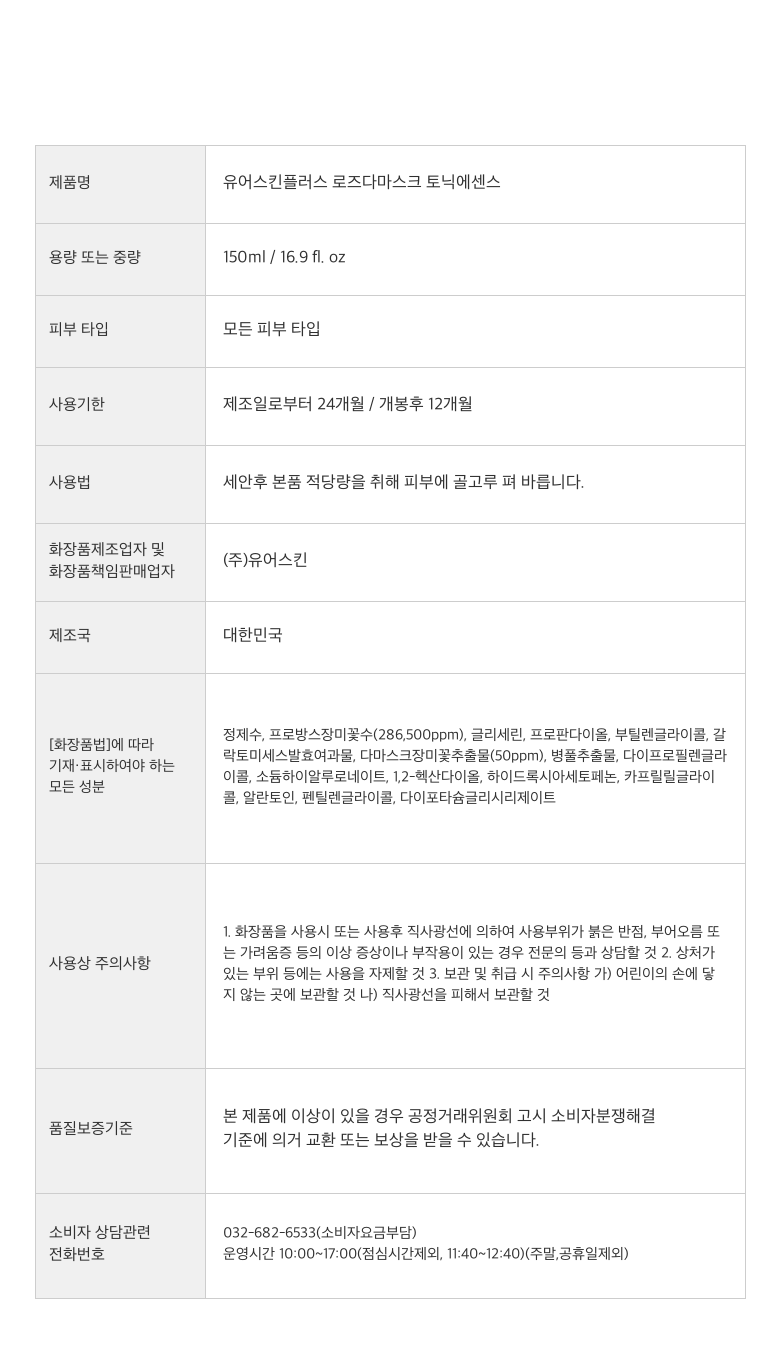
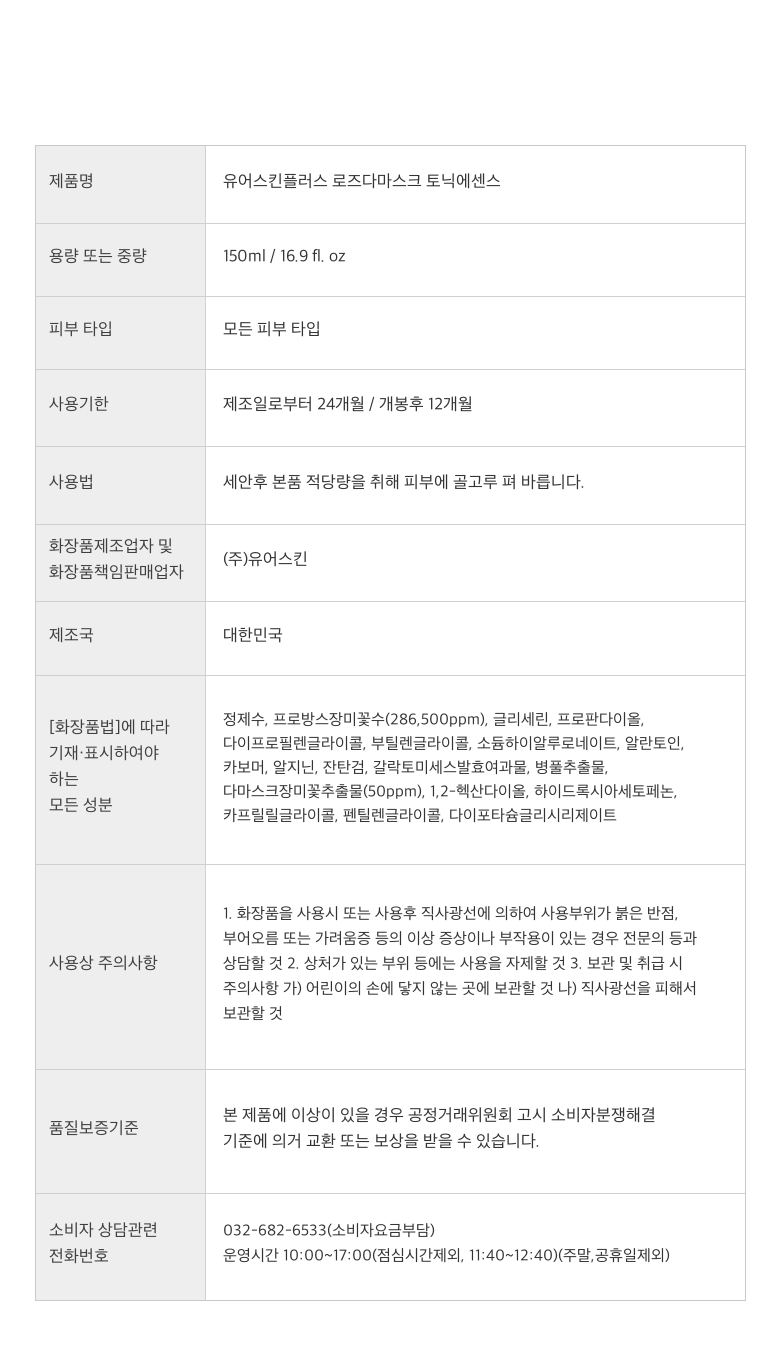
fix: update rose essence ingredient table

diff --git a/scripts/render-rose-essence-ingredient-table.py b/scripts/render-rose-essence-ingredient-table.py
@@ -1,0 +1,184 @@
+from pathlib import Path
+from PIL import Image, ImageDraw, ImageFont
+import shutil
+import json
+
+ROOT = Path(__file__).resolve().parents[1]
+OUT = ROOT / 'public/coupang/images/rose-essence/versions/v1/detail/11.png'
+BACKUP_DIR = OUT.parent / 'backup'
+BACKUP_DIR.mkdir(parents=True, exist_ok=True)
+BACKUP = BACKUP_DIR / '11-before-ingredient-change-20260615.png'
+if OUT.exists() and not BACKUP.exists():
+    shutil.copy2(OUT, BACKUP)
+
+W, H = 780, 1360
+# Match the existing rose legal table geometry.
+X0, X1, X2 = 35, 205, 745
+TOP = 145
+ROW_HEIGHTS = [78, 73, 73, 77, 78, 77, 74, 189, 205, 124, 107]
+FONT_PATH = '/System/Library/Fonts/AppleSDGothicNeo.ttc'
+
+INGREDIENT_LIST = [
+    '정제수',
+    '프로방스장미꽃수(286,500ppm)',
+    '글리세린',
+    '프로판다이올',
+    '다이프로필렌글라이콜',
+    '부틸렌글라이콜',
+    '소듐하이알루로네이트',
+    '알란토인',
+    '카보머',
+    '알지닌',
+    '잔탄검',
+    '갈락토미세스발효여과물',
+    '병풀추출물',
+    '다마스크장미꽃추출물(50ppm)',
+    '1,2-헥산다이올',
+    '하이드록시아세토페논',
+    '카프릴릴글라이콜',
+    '펜틸렌글라이콜',
+    '다이포타슘글리시리제이트',
+]
+NEW_INGREDIENTS = ', '.join(INGREDIENT_LIST)
+EXPECTED_ORDER = INGREDIENT_LIST[:]
+
+rows = [
+    ('제품명', '유어스킨플러스 로즈다마스크 토닉에센스'),
+    ('용량 또는 중량', '150ml / 16.9 fl. oz'),
+    ('피부 타입', '모든 피부 타입'),
+    ('사용기한', '제조일로부터 24개월 / 개봉후 12개월'),
+    ('사용법', '세안후 본품 적당량을 취해 피부에 골고루 펴 바릅니다.'),
+    ('화장품제조업자 및\n화장품책임판매업자', '(주)유어스킨'),
+    ('제조국', '대한민국'),
+    ('[화장품법]에 따라\n기재·표시하여야 하는\n모든 성분', NEW_INGREDIENTS),
+    ('사용상 주의사항', '1. 화장품을 사용시 또는 사용후 직사광선에 의하여 사용부위가 붉은 반점, 부어오름 또는 가려움증 등의 이상 증상이나 부작용이 있는 경우 전문의 등과 상담할 것 2. 상처가 있는 부위 등에는 사용을 자제할 것 3. 보관 및 취급 시 주의사항 가) 어린이의 손에 닿지 않는 곳에 보관할 것 나) 직사광선을 피해서 보관할 것'),
+    ('품질보증기준', '본 제품에 이상이 있을 경우 공정거래위원회 고시 소비자분쟁해결\n기준에 의거 교환 또는 보상을 받을 수 있습니다.'),
+    ('소비자 상담관련\n전화번호', '032-682-6533(소비자요금부담)\n운영시간 10:00~17:00(점심시간제외, 11:40~12:40)(주말,공휴일제외)'),
+]
+
+assert len(rows) == len(ROW_HEIGHTS)
+
+def font(size):
+    return ImageFont.truetype(FONT_PATH, size=size, index=0)
+
+BODY = font(17)
+LABEL = font(17)
+SMALL = font(16)
+
+# Ingredient row is the critical row; keep comma-token order and wrap only by appending the next token.
+def text_width(draw, text, f):
+    if not text:
+        return 0
+    b = draw.textbbox((0, 0), text, font=f)
+    return b[2] - b[0]
+
+def wrap_general(draw, text, f, max_w):
+    lines = []
+    for para in str(text).split('\n'):
+        if para == '':
+            lines.append('')
+            continue
+        line = ''
+        for token in para.split(' '):
+            cand = token if not line else line + ' ' + token
+            if text_width(draw, cand, f) <= max_w:
+                line = cand
+                continue
+            if line:
+                lines.append(line)
+                line = ''
+            if text_width(draw, token, f) <= max_w:
+                line = token
+            else:
+                chunk = ''
+                for ch in token:
+                    cc = chunk + ch
+                    if text_width(draw, cc, f) <= max_w:
+                        chunk = cc
+                    else:
+                        if chunk:
+                            lines.append(chunk)
+                        chunk = ch
+                line = chunk
+        if line:
+            lines.append(line)
+    return lines
+
+def wrap_ingredients(draw, ingredients, f, max_w):
+    lines = []
+    line = ''
+    for i, token in enumerate(ingredients):
+        piece = token if i == len(ingredients) - 1 else token + ','
+        cand = piece if not line else line + ' ' + piece
+        if text_width(draw, cand, f) <= max_w:
+            line = cand
+        else:
+            if line:
+                lines.append(line)
+            line = piece
+    if line:
+        lines.append(line)
+    return lines
+
+img = Image.new('RGB', (W, H), '#ffffff')
+d = ImageDraw.Draw(img)
+border = '#d0d0d0'
+label_bg = '#eeeeee'
+value_bg = '#ffffff'
+text_color = '#333333'
+label_color = '#3f3f3f'
+
+y = TOP
+line_h = 26
+for idx, ((label, value), row_h) in enumerate(zip(rows, ROW_HEIGHTS)):
+    d.rectangle([X0, y, X1, y + row_h], fill=label_bg, outline=border)
+    d.rectangle([X1, y, X2, y + row_h], fill=value_bg, outline=border)
+    label_lines = wrap_general(d, label, LABEL, X1 - X0 - 28)
+    label_block_h = len(label_lines) * line_h
+    ly = y + (row_h - label_block_h) / 2
+    for line in label_lines:
+        d.text((X0 + 14, ly), line, fill=label_color, font=LABEL)
+        ly += line_h
+
+    if idx == 7:
+        f = SMALL
+        value_lines = wrap_ingredients(d, EXPECTED_ORDER, f, X2 - X1 - 34)
+        # Reconstruct from the render source list to verify no reorder happened before drawing.
+        used_order = EXPECTED_ORDER[:]
+        assert used_order == EXPECTED_ORDER, json.dumps({'used_order': used_order, 'expected': EXPECTED_ORDER}, ensure_ascii=False, indent=2)
+        ingredient_line_h = 24
+        block_h = len(value_lines) * ingredient_line_h
+        vy = y + (row_h - block_h) / 2 + 1
+        for line in value_lines:
+            d.text((X1 + 18, vy), line, fill=text_color, font=f)
+            vy += ingredient_line_h
+    else:
+        f = BODY
+        value_lines = wrap_general(d, value, f, X2 - X1 - 34)
+        if idx in (8, 10):
+            f = SMALL
+            value_lines = wrap_general(d, value, f, X2 - X1 - 34)
+            lh = 25
+        else:
+            lh = line_h
+        block_h = len(value_lines) * lh
+        # Match original: most content vertically centered, long caution centered in its large row.
+        vy = y + (row_h - block_h) / 2
+        for line in value_lines:
+            d.text((X1 + 18, vy), line, fill=text_color, font=f)
+            vy += lh
+    y += row_h
+
+# Outer border
+TABLE_BOTTOM = TOP + sum(ROW_HEIGHTS)
+d.rectangle([X0, TOP, X2, TABLE_BOTTOM], outline='#c9c9c9', width=1)
+OUT.parent.mkdir(parents=True, exist_ok=True)
+img.save(OUT, 'PNG', optimize=True)
+print(json.dumps({
+    'rendered': str(OUT),
+    'backup': str(BACKUP),
+    'size': [W, H],
+    'table_bottom': TABLE_BOTTOM,
+    'ingredient_count': len(EXPECTED_ORDER),
+    'ingredient_lines': wrap_ingredients(d, EXPECTED_ORDER, SMALL, X2 - X1 - 34),
+}, ensure_ascii=False, indent=2))
